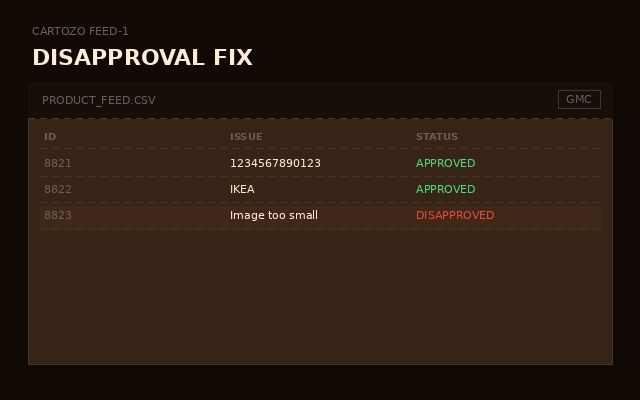
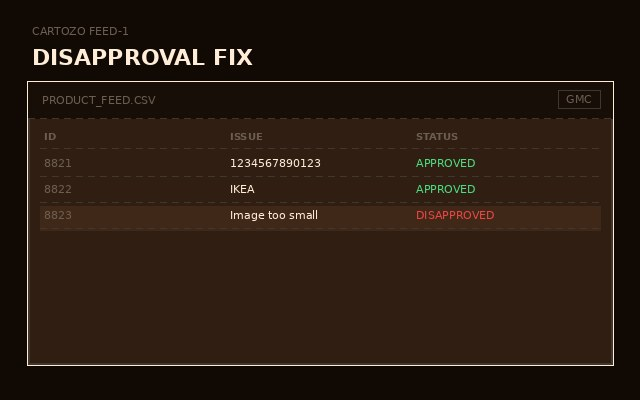
Lock homepage to ORYZO dark void; remove light grid look
Force dark theme on homepage, hide theme toggle, remove background grid
canvas, add full-bleed ORYZO layout CSS, gallery poster fallbacks, and
regenerate higher-contrast demo videos.

diff --git a/static/home-oryzo-dark.css b/static/home-oryzo-dark.css
@@ -1,0 +1,227 @@
+/**
+ * ORYZO homepage — dark void only (full-bleed editorial).
+ * Overrides light theme / SaaS grid look on .hp-body.hp-home
+ */
+
+html:has(.hp-body.hp-home) {
+  color-scheme: dark;
+}
+
+.hp-body.hp-home {
+  --hp-bg: #100904;
+  --hp-text: #ffedd7;
+  --hp-muted: #6c5f51;
+  --hp-border: #40372e;
+  --hp-border-card: #40372e;
+  --hp-link: #dc5000;
+  background: #100904 !important;
+  color: #ffedd7 !important;
+}
+
+.hp-body.hp-home .hp-canvas {
+  background: #100904 !important;
+}
+
+.hp-body.hp-home .hp-theme-btn {
+  display: none !important;
+}
+
+/* Full-bleed void — no cream canvas, no boxy max-width bands */
+.hp-body.hp-home section,
+.hp-body.hp-home .hp-footer {
+  background: transparent;
+}
+
+.hp-body.hp-home .hp-container {
+  max-width: min(1240px, 100%);
+  padding-left: clamp(24px, 5vw, 72px);
+  padding-right: clamp(24px, 5vw, 72px);
+}
+
+/* Hero — ORYZO: copy upper-left, demo lower-right */
+.hp-body.hp-home .hp-hero {
+  display: block;
+  min-height: 100svh;
+  padding: clamp(120px, 14vh, 160px) clamp(24px, 6vw, 96px) clamp(240px, 28vh, 320px);
+  box-sizing: border-box;
+}
+
+.hp-body.hp-home .hp-hero-inner {
+  max-width: min(640px, 92vw);
+}
+
+.hp-body.hp-home .hp-title {
+  font-size: clamp(2.5rem, 7vw, 51px);
+  line-height: 0.9;
+  max-width: 12ch;
+}
+
+.hp-body.hp-home .hp-sub {
+  font-size: clamp(1.05rem, 2vw, 22px);
+  max-width: 34ch;
+  color: #ffedd7;
+}
+
+.hp-body.hp-home .hp-hero-aside {
+  position: absolute;
+  right: clamp(20px, 5vw, 72px);
+  bottom: clamp(28px, 6vh, 80px);
+  width: min(360px, 40vw);
+  margin: 0;
+  align-self: auto;
+  justify-self: auto;
+}
+
+.hp-body.hp-home .hp-hero-card {
+  max-width: none;
+  background: rgba(16, 9, 4, 0.72);
+  border-color: #40372e;
+}
+
+.hp-body.hp-home .hp-hero-video {
+  border-color: #40372e;
+  background: #100904;
+  box-shadow: 0 0 0 1px rgba(255, 237, 215, 0.04);
+}
+
+.hp-body.hp-home .hp-hero-void {
+  background:
+    radial-gradient(ellipse 50% 42% at 78% 32%, rgba(56, 36, 22, 0.55) 0%, transparent 70%),
+    radial-gradient(ellipse 38% 32% at 12% 78%, rgba(64, 55, 46, 0.28) 0%, transparent 72%);
+}
+
+/* Void scroll scene — full viewport, centered stage */
+.hp-body.hp-home .hp-scene--reveal {
+  height: 240vh;
+  border-top: 1px dashed #40372e;
+}
+
+.hp-body.hp-home .hp-scene-sticky {
+  background: transparent;
+}
+
+.hp-body.hp-home .hp-scene-grid {
+  max-width: none;
+  padding: 0 clamp(24px, 5vw, 72px);
+  grid-template-columns: minmax(0, 1fr) minmax(260px, 420px) minmax(0, 1fr);
+}
+
+.hp-body.hp-home .hp-scene-stage {
+  max-height: min(68vh, 560px);
+  filter: drop-shadow(0 24px 48px rgba(0, 0, 0, 0.45));
+}
+
+.hp-body.hp-home .hp-scene--powered,
+.hp-body.hp-home .hp-scene--gallery {
+  background: transparent;
+  border-top: 1px dashed #40372e;
+}
+
+.hp-body.hp-home .hp-powered-stage {
+  background: rgba(16, 9, 4, 0.6);
+  border-color: #40372e;
+}
+
+/* Gallery — visible posters + video, not empty black boxes */
+.hp-body.hp-home .hp-gallery-media {
+  position: relative;
+  aspect-ratio: 16 / 10;
+  background: #100904;
+  overflow: hidden;
+}
+
+.hp-body.hp-home .hp-gallery-poster,
+.hp-body.hp-home .hp-gallery-item video {
+  position: absolute;
+  inset: 0;
+  width: 100%;
+  height: 100%;
+  object-fit: cover;
+  display: block;
+}
+
+.hp-body.hp-home .hp-gallery-item video {
+  z-index: 2;
+  opacity: 1;
+}
+
+.hp-body.hp-home .hp-gallery-item {
+  background: #100904;
+  border-color: #40372e;
+}
+
+.hp-body.hp-home .hp-gallery-item-body {
+  background: rgba(16, 9, 4, 0.85);
+  border-top: 1px dashed #40372e;
+}
+
+/* Editorial sections on void — no white/light cards */
+.hp-body.hp-home .hp-answer,
+.hp-body.hp-home .hp-features,
+.hp-body.hp-home .hp-feed-section,
+.hp-body.hp-home .hp-steps,
+.hp-body.hp-home .hp-cta {
+  border-top: 1px dashed #40372e;
+}
+
+.hp-body.hp-home .hp-feature:hover {
+  background: rgba(56, 36, 22, 0.14);
+}
+
+.hp-body.hp-home .hp-answer-card,
+.hp-body.hp-home [data-theme="light"] .hp-answer-card {
+  background: transparent !important;
+}
+
+.hp-body.hp-home .hp-feed-block-inner {
+  background: rgba(16, 9, 4, 0.75) !important;
+}
+
+.hp-body.hp-home .hp-nav,
+.hp-body.hp-home .hp-nav.scrolled {
+  background: rgba(16, 9, 4, 0.88) !important;
+  backdrop-filter: blur(12px);
+  border-bottom-color: #40372e !important;
+}
+
+.hp-body.hp-home .hp-nav-link,
+.hp-body.hp-home .hp-nav-wordmark {
+  color: #ffedd7 !important;
+}
+
+.hp-body.hp-home .hp-footer {
+  background: #100904 !important;
+  border-top: 1px dashed #40372e;
+}
+
+.hp-body.hp-home .hp-edge-label {
+  right: 18px;
+  left: auto;
+  transform: translateY(-50%) rotate(90deg);
+}
+
+@media (max-width: 1024px) {
+  .hp-body.hp-home .hp-hero {
+    padding-bottom: clamp(320px, 40vh, 420px);
+  }
+
+  .hp-body.hp-home .hp-hero-aside {
+    position: absolute;
+    right: 24px;
+    left: 24px;
+    width: auto;
+    bottom: 24px;
+  }
+
+  .hp-body.hp-home .hp-hero-card {
+    display: none;
+  }
+
+  .hp-body.hp-home .hp-scene--reveal {
+    height: auto;
+  }
+
+  .hp-body.hp-home .hp-scene-grid {
+    grid-template-columns: 1fr;
+  }
+}

diff --git a/static/home-animations.css b/static/home-animations.css
@@ -451,6 +451,28 @@
   display: block;
 }
 
+.hp-gallery-media {
+  position: relative;
+  aspect-ratio: 16 / 10;
+  background: #100904;
+  overflow: hidden;
+}
+
+.hp-gallery-poster {
+  position: absolute;
+  inset: 0;
+  width: 100%;
+  height: 100%;
+  object-fit: cover;
+  z-index: 1;
+}
+
+.hp-gallery-media video {
+  position: absolute;
+  inset: 0;
+  z-index: 2;
+}
+
 .hp-gallery-item-body {
   padding: 16px 18px 18px;
 }

diff --git a/static/home-animations.js b/static/home-animations.js
@@ -522,7 +522,6 @@
     initHeroVideo();
     initHeroPreview();
     initSplitReveal();
-    initBgCanvas();
     initVoidScene();
     initPoweredSection();
     initGallery();

diff --git a/app/main.py b/app/main.py
@@ -1270,10 +1270,11 @@ HOMEPAGE_HTML = """<!DOCTYPE html>
     <meta name="twitter:title" content="{SEO_OG_TITLE}" />
     <meta name="twitter:description" content="{SEO_OG_DESCRIPTION}" />
     {SEO_LINK_EXTRA}
-    <script>document.documentElement.setAttribute('data-theme', localStorage.getItem('hp-theme') || 'dark');</script>
+    <script>document.documentElement.setAttribute('data-theme','dark');</script>
     <style>body{opacity:0;transition:opacity .28s ease}body.page-transition-out{opacity:0;pointer-events:none}</style>
     <link rel="stylesheet" href="/static/styles.css" />
     <link rel="stylesheet" href="/static/home-animations.css" />
+    <link rel="stylesheet" href="/static/home-oryzo-dark.css" />
     <style>
     html { scroll-behavior: smooth; }
 
@@ -1659,7 +1660,6 @@ HOMEPAGE_HTML = """<!DOCTYPE html>
 <body class="hp-body hp-home">
 """ + GTM_BODY + """
     <div class="hp-canvas" aria-hidden="true"></div>
-    <canvas class="hp-bg-canvas" id="hpBgCanvas" aria-hidden="true"></canvas>
     <span class="hp-edge-label" aria-hidden="true">Cartozo Feed-1</span>
     {PUBLIC_HP_NAV}
 
@@ -1757,21 +1757,30 @@ HOMEPAGE_HTML = """<!DOCTYPE html>
         <div class="hp-gallery-track-wrap">
             <div class="hp-gallery-track">
                 <article class="hp-gallery-item">
-                    <video src="/static/home-media/cartozo-demo.webm" poster="/static/home-media/cartozo-demo-poster.jpg" muted playsinline loop preload="metadata" aria-label="Full feed optimization demo"></video>
+                    <div class="hp-gallery-media">
+                        <img class="hp-gallery-poster" src="/static/home-media/cartozo-demo-poster.jpg" alt="" loading="lazy" />
+                        <video src="/static/home-media/cartozo-demo.webm" poster="/static/home-media/cartozo-demo-poster.jpg" muted playsinline loop preload="metadata" aria-label="Full feed optimization demo"></video>
+                    </div>
                     <div class="hp-gallery-item-body">
                         <div class="hp-gallery-item-label">Issue 001</div>
                         <div class="hp-gallery-item-title">Full catalog rewrite</div>
                     </div>
                 </article>
                 <article class="hp-gallery-item">
-                    <video src="/static/home-media/gallery-titles.webm" poster="/static/home-media/gallery-titles-poster.jpg" muted playsinline loop preload="metadata" aria-label="Title rewrite demo"></video>
+                    <div class="hp-gallery-media">
+                        <img class="hp-gallery-poster" src="/static/home-media/gallery-titles-poster.jpg" alt="" loading="lazy" />
+                        <video src="/static/home-media/gallery-titles.webm" poster="/static/home-media/gallery-titles-poster.jpg" muted playsinline loop preload="metadata" aria-label="Title rewrite demo"></video>
+                    </div>
                     <div class="hp-gallery-item-body">
                         <div class="hp-gallery-item-label">Issue 002</div>
                         <div class="hp-gallery-item-title">Intent-aligned titles</div>
                     </div>
                 </article>
                 <article class="hp-gallery-item">
-                    <video src="/static/home-media/gallery-disapproval.webm" poster="/static/home-media/gallery-disapproval-poster.jpg" muted playsinline loop preload="metadata" aria-label="Disapproval fix demo"></video>
+                    <div class="hp-gallery-media">
+                        <img class="hp-gallery-poster" src="/static/home-media/gallery-disapproval-poster.jpg" alt="" loading="lazy" />
+                        <video src="/static/home-media/gallery-disapproval.webm" poster="/static/home-media/gallery-disapproval-poster.jpg" muted playsinline loop preload="metadata" aria-label="Disapproval fix demo"></video>
+                    </div>
                     <div class="hp-gallery-item-body">
                         <div class="hp-gallery-item-label">Issue 003</div>
                         <div class="hp-gallery-item-title">Disapproval recovery</div>
@@ -2034,24 +2043,12 @@ HOMEPAGE_HTML = """<!DOCTYPE html>
     </button>
 
     <script>
-    const btn = document.getElementById('backToTop');
-    
-    // Theme toggle
+    // Homepage is ORYZO dark-only — no theme toggle
+    document.documentElement.setAttribute('data-theme', 'dark');
     const themeToggle = document.getElementById('themeToggle');
-    const THEME_KEY = 'hp-theme';
-    function getTheme() { return localStorage.getItem(THEME_KEY) || 'dark'; }
-    function setTheme(theme) {
-        document.documentElement.setAttribute('data-theme', theme);
-        localStorage.setItem(THEME_KEY, theme);
-        themeToggle.textContent = theme === 'dark' ? '\u2600' : '\u263E';
-        themeToggle.setAttribute('aria-label', theme === 'dark' ? 'Switch to light theme' : 'Switch to dark theme');
-    }
-    if (themeToggle) {
-        setTheme(getTheme());
-        themeToggle.addEventListener('click', () => setTheme(getTheme() === 'dark' ? 'light' : 'dark'));
-    }
-
-    const siteNav = document.querySelector('.hp-nav');
+    if (themeToggle) themeToggle.style.display = 'none';
+    
+    const btn = document.getElementById('backToTop');
     function syncNavScroll() {
         if (!siteNav) return;
         if (window.scrollY > 48) siteNav.classList.add('scrolled');

diff --git a/scripts/generate_home_videos.py b/scripts/generate_home_videos.py
@@ -66,7 +66,9 @@ def _draw_feed_window(
     badge: str = "CSV",
 ) -> tuple[int, int, int, int]:
     x0, y0, x1, y1 = box
-    draw.rectangle(box, fill=BARK, outline=CORK, width=1)
+    # Outer glow frame
+    draw.rectangle([x0 - 1, y0 - 1, x1 + 1, y1 + 1], outline=(255, 237, 215, 40))
+    draw.rectangle(box, fill=(48, 30, 18), outline=CORK, width=2)
     bar_h = 36
     draw.rectangle([x0, y0, x1, y0 + bar_h], fill=(24, 14, 8))
     _draw_dashed_hline(draw, y0 + bar_h, x0, x1, CORK)
@@ -304,7 +306,7 @@ def render_video(name: str, duration: float, frame_fn, *, width: int | None = No
             "-i", pattern,
             "-c:v", "libvpx-vp9",
             "-pix_fmt", "yuv420p",
-            "-b:v", "1800k",
+            "-b:v", "2400k",
             "-crf", "32",
             str(out_path),
         ]